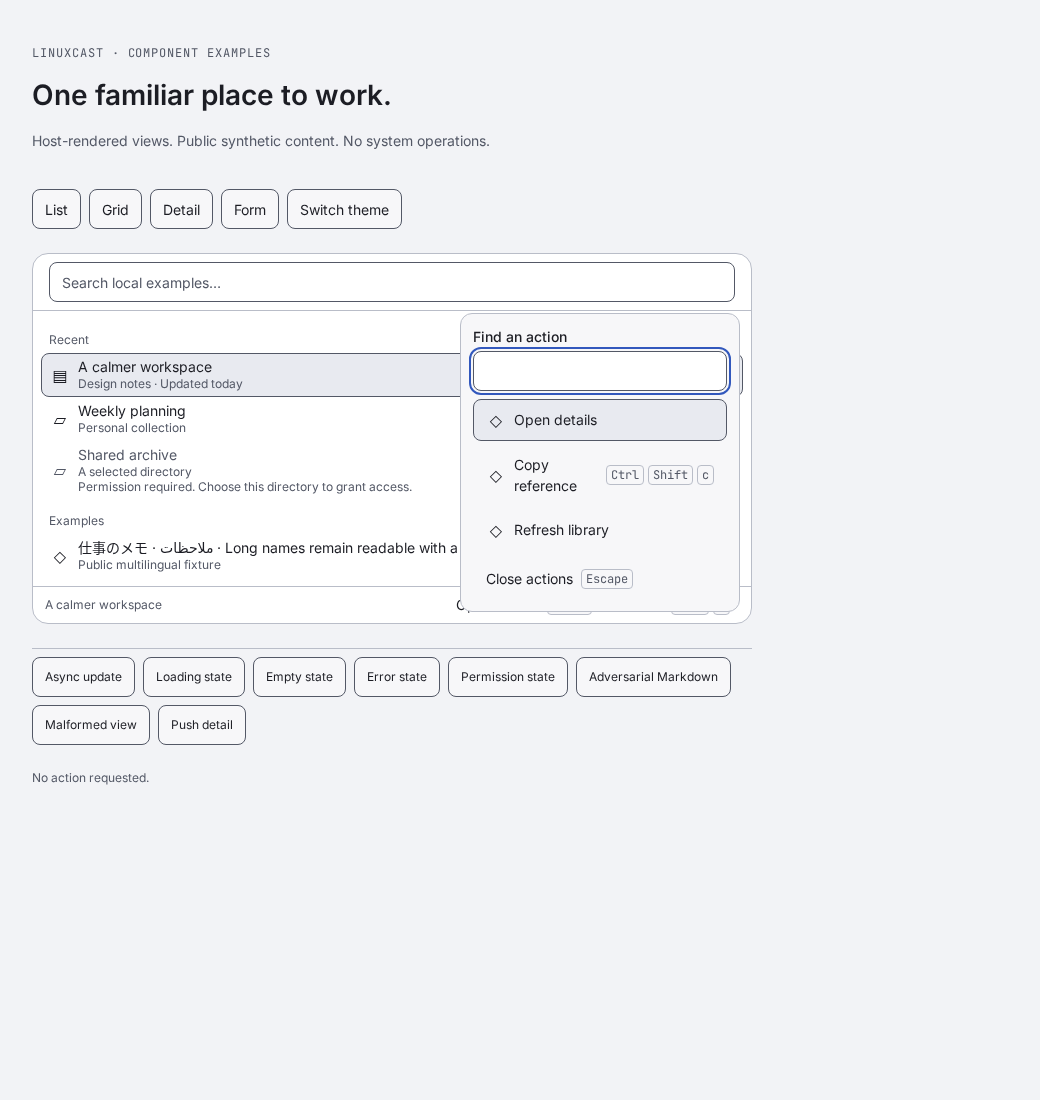
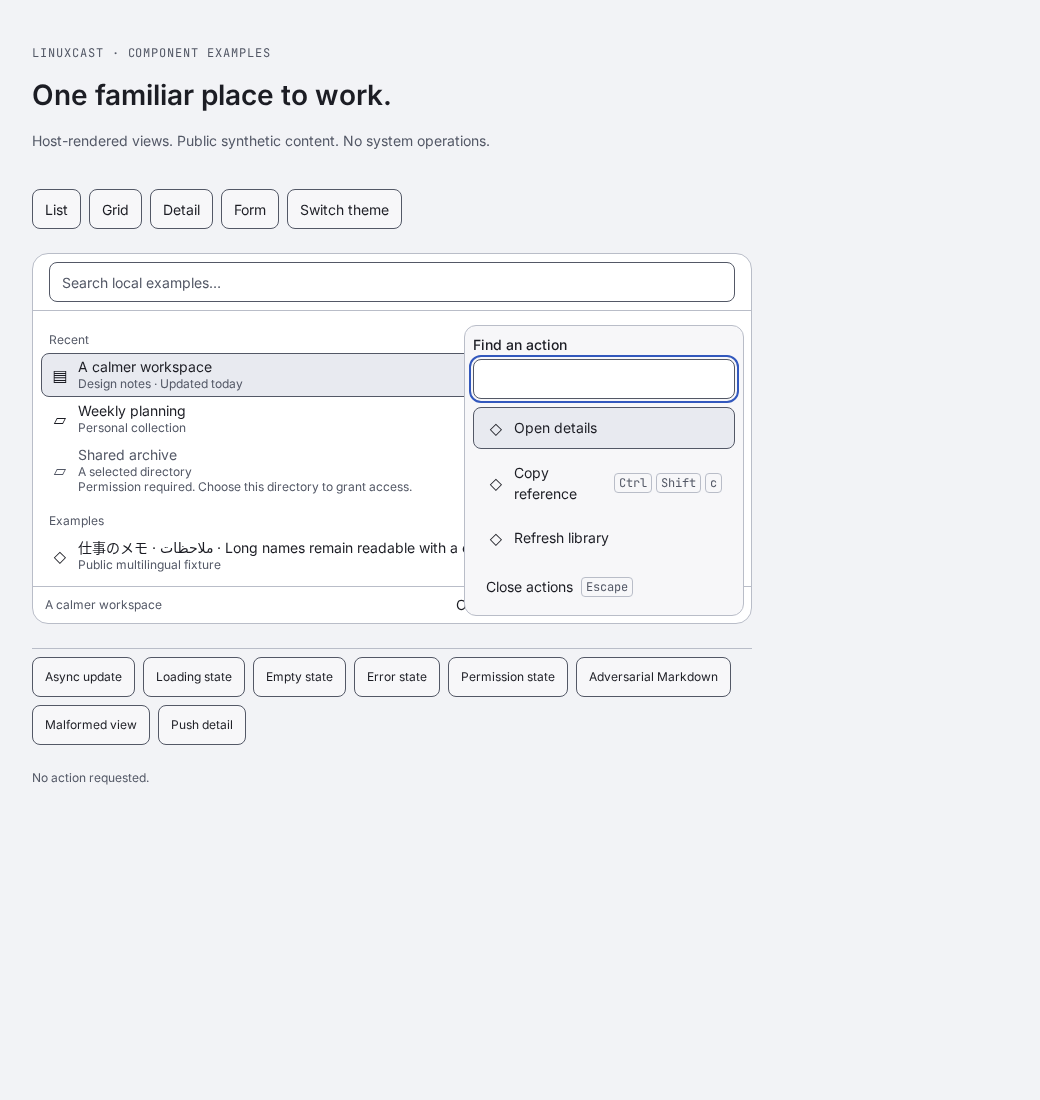
fix(ui): fit application actions in the compact desktop launcher

Changed region(s): [[0.4308, 0.2782, 0.7385, 0.4945], [0.5846, 0.4018, 0.6769, 0.4636], [0.4615, 0.5255, 0.6154, 0.5564]]

diff --git a/packages/ui/src/views/views.css b/packages/ui/src/views/views.css
@@ -35,7 +35,7 @@
 .lc-detail, .lc-view-form { padding: var(--lc-space-16); }.lc-view-form { display: grid; gap: var(--lc-space-16); }.lc-form-actions { display: flex; flex-wrap: wrap; gap: var(--lc-space-8); }.lc-view select, .lc-view textarea { font: inherit; }.lc-view textarea { min-block-size: calc(var(--lc-row-height) * 5); resize: vertical; }
 .lc-markdown { overflow-wrap: anywhere; }.lc-markdown h1 { font-size: var(--lc-text-panel-title); }.lc-markdown h2, .lc-markdown h3 { font-size: var(--lc-text-emphasis); }.lc-markdown pre, .lc-text-content { white-space: pre-wrap; overflow-wrap: anywhere; font-family: var(--lc-font-mono); background: var(--lc-raised); padding: var(--lc-space-12); border-radius: var(--lc-radius-row); }.lc-markdown code { font-family: var(--lc-font-mono); }.lc-markdown a { color: var(--lc-focus); }.lc-markdown a:focus-visible { outline: 2px solid var(--lc-focus); }.lc-markdown blockquote { border-inline-start: 1px solid var(--lc-border); margin-inline: 0; padding-inline: var(--lc-space-16); }.lc-metadata { border-block-start: 1px solid var(--lc-border); padding-block-start: var(--lc-space-12); }.lc-metadata > div { display: flex; gap: var(--lc-space-16); }.lc-metadata dt { color: var(--lc-muted); }.lc-metadata dd { margin: 0; overflow-wrap: anywhere; }
 .lc-view-footer { display: flex; flex-wrap: wrap; align-items: center; justify-content: space-between; gap: var(--lc-space-8); min-block-size: var(--lc-footer-height); border-block-start: 1px solid var(--lc-border); padding: 0 var(--lc-space-12); }.lc-footer-context { color: var(--lc-muted); font-size: var(--lc-text-caption); overflow: hidden; text-overflow: ellipsis; white-space: nowrap; max-inline-size: 40%; }.lc-view-footer > div { display: flex; flex-wrap: wrap; gap: var(--lc-space-4); }.lc-view-footer .lc-button { min-block-size: var(--lc-footer-height); padding: var(--lc-space-4) var(--lc-space-8); }
-.lc-action-panel, .lc-discard-dialog { color: var(--lc-text); background: var(--lc-raised); border: 1px solid var(--lc-border); border-radius: var(--lc-radius-popover); padding: var(--lc-space-12); max-block-size: 80vh; max-inline-size: calc(100vw - var(--lc-space-32)); font: inherit; }.lc-action-panel { inline-size: var(--lc-action-panel-width); margin: 0; inset: auto; position: fixed; }.lc-action-panel::backdrop, .lc-discard-dialog::backdrop { background: transparent; }.lc-action-list { display: grid; gap: var(--lc-space-4); margin-block: var(--lc-space-8); }.lc-panel-action { justify-content: start; inline-size: 100%; text-align: start; }.lc-panel-action > span:not(.lc-result-icon,.lc-shortcut) { flex: 1; }.lc-panel-action small { display: block; }.lc-panel-action[data-current='true'] { background: var(--lc-selection); border-color: var(--lc-muted); }.lc-discard-dialog h2 { font-size: var(--lc-text-emphasis); }.lc-discard-dialog .lc-button { margin-inline-end: var(--lc-space-8); }
+.lc-action-panel, .lc-discard-dialog { color: var(--lc-text); background: var(--lc-raised); border: 1px solid var(--lc-border); border-radius: var(--lc-radius-popover); padding: var(--lc-space-12); max-block-size: 80vh; max-inline-size: calc(100vw - var(--lc-space-32)); font: inherit; }.lc-action-panel { padding: var(--lc-space-8); max-block-size: calc(100dvh - var(--lc-space-16)); inline-size: var(--lc-action-panel-width); margin: 0; inset: auto; position: fixed; }.lc-action-panel::backdrop, .lc-discard-dialog::backdrop { background: transparent; }.lc-action-list { display: grid; gap: var(--lc-space-4); margin-block: var(--lc-space-8); }.lc-panel-action { justify-content: start; inline-size: 100%; text-align: start; }.lc-panel-action > span:not(.lc-result-icon,.lc-shortcut) { flex: 1; }.lc-panel-action small { display: block; }.lc-panel-action[data-current='true'] { background: var(--lc-selection); border-color: var(--lc-muted); }.lc-discard-dialog h2 { font-size: var(--lc-text-emphasis); }.lc-discard-dialog .lc-button { margin-inline-end: var(--lc-space-8); }
 @media (max-width: 40rem) { .lc-collection-layout[data-detail='true'] { flex-direction: column; }.lc-detail-divider { writing-mode: horizontal-tb; inline-size: 100%; }.lc-item-preview { min-inline-size: 0; }.lc-result { flex-wrap: wrap; } }
 @media (forced-colors: active) { .lc-result[aria-selected='true'], .lc-panel-action[data-current='true'] { border-color: Highlight; }.lc-tag, .lc-view-shell, .lc-action-panel, .lc-discard-dialog { border-color: CanvasText; } }
 

diff --git a/apps/desktop/tests/shell.integration.test.ts b/apps/desktop/tests/shell.integration.test.ts
@@ -112,6 +112,10 @@ MimeType=x-scheme-handler/http;x-scheme-handler/https;
   await query.press('Control+k');await appActions.fill('Reload commands');await appActions.press('Enter');
   await expect.poll(()=>page.getByRole('option',{selected:true}).textContent()).toContain('Public fixture app');
   await query.press('Control+k');await appActions.fill('New window');
+  // A single filtered action must fit the compact production window without
+  // clipping its separate Close button inside the popup's scrollport.
+  const menuGeometry=await page.getByRole('dialog',{name:'Actions',exact:true}).evaluate(element=>({scroll:element.scrollHeight,client:element.clientHeight,height:element.getBoundingClientRect().height,viewport:window.innerHeight,list:element.querySelector('.lc-action-list')?.getBoundingClientRect().height,field:element.querySelector('.lc-field')?.getBoundingClientRect().height,close:element.querySelector('button:last-child')?.getBoundingClientRect().height}));
+  expect(menuGeometry.scroll,JSON.stringify(menuGeometry)).toBeLessThanOrEqual(menuGeometry.client);
   const actionEvidence=join(root,'apps/desktop/evidence');mkdirSync(actionEvidence,{recursive:true});
   for(const theme of ['dark','light'] as const){
     await app.evaluate(({nativeTheme},value)=>{nativeTheme.themeSource=value;},theme);await expect.poll(()=>page.locator('.lc-theme').getAttribute('data-lc-theme')).toBe(theme);

diff --git a/apps/desktop/src/main/index.ts b/apps/desktop/src/main/index.ts
@@ -19,6 +19,7 @@ startResidentShell({ resourcesDirectory: __dirname,
   async openUrl(url){if(!applications)throw new Error('Browser opening unavailable.');return applications.openUrl(url);},
   async listApplications(){if(!applications)throw new Error('Applications unavailable.');return applications.list();},
   async launchApplication(application){if(!applications)throw new Error('Applications unavailable.');return applications.launch(application);},
+  async launchApplicationAction(application){if(!applications)throw new Error('Application actions unavailable.');return applications.launchAction(application);},
   async getCommandUsage(commandId) {
     if(!storage?.isReady()) throw new Error('Local ranking unavailable.');
     return storage.repository.request('commands.getUsage',{commandId},{timeoutMs:250});
